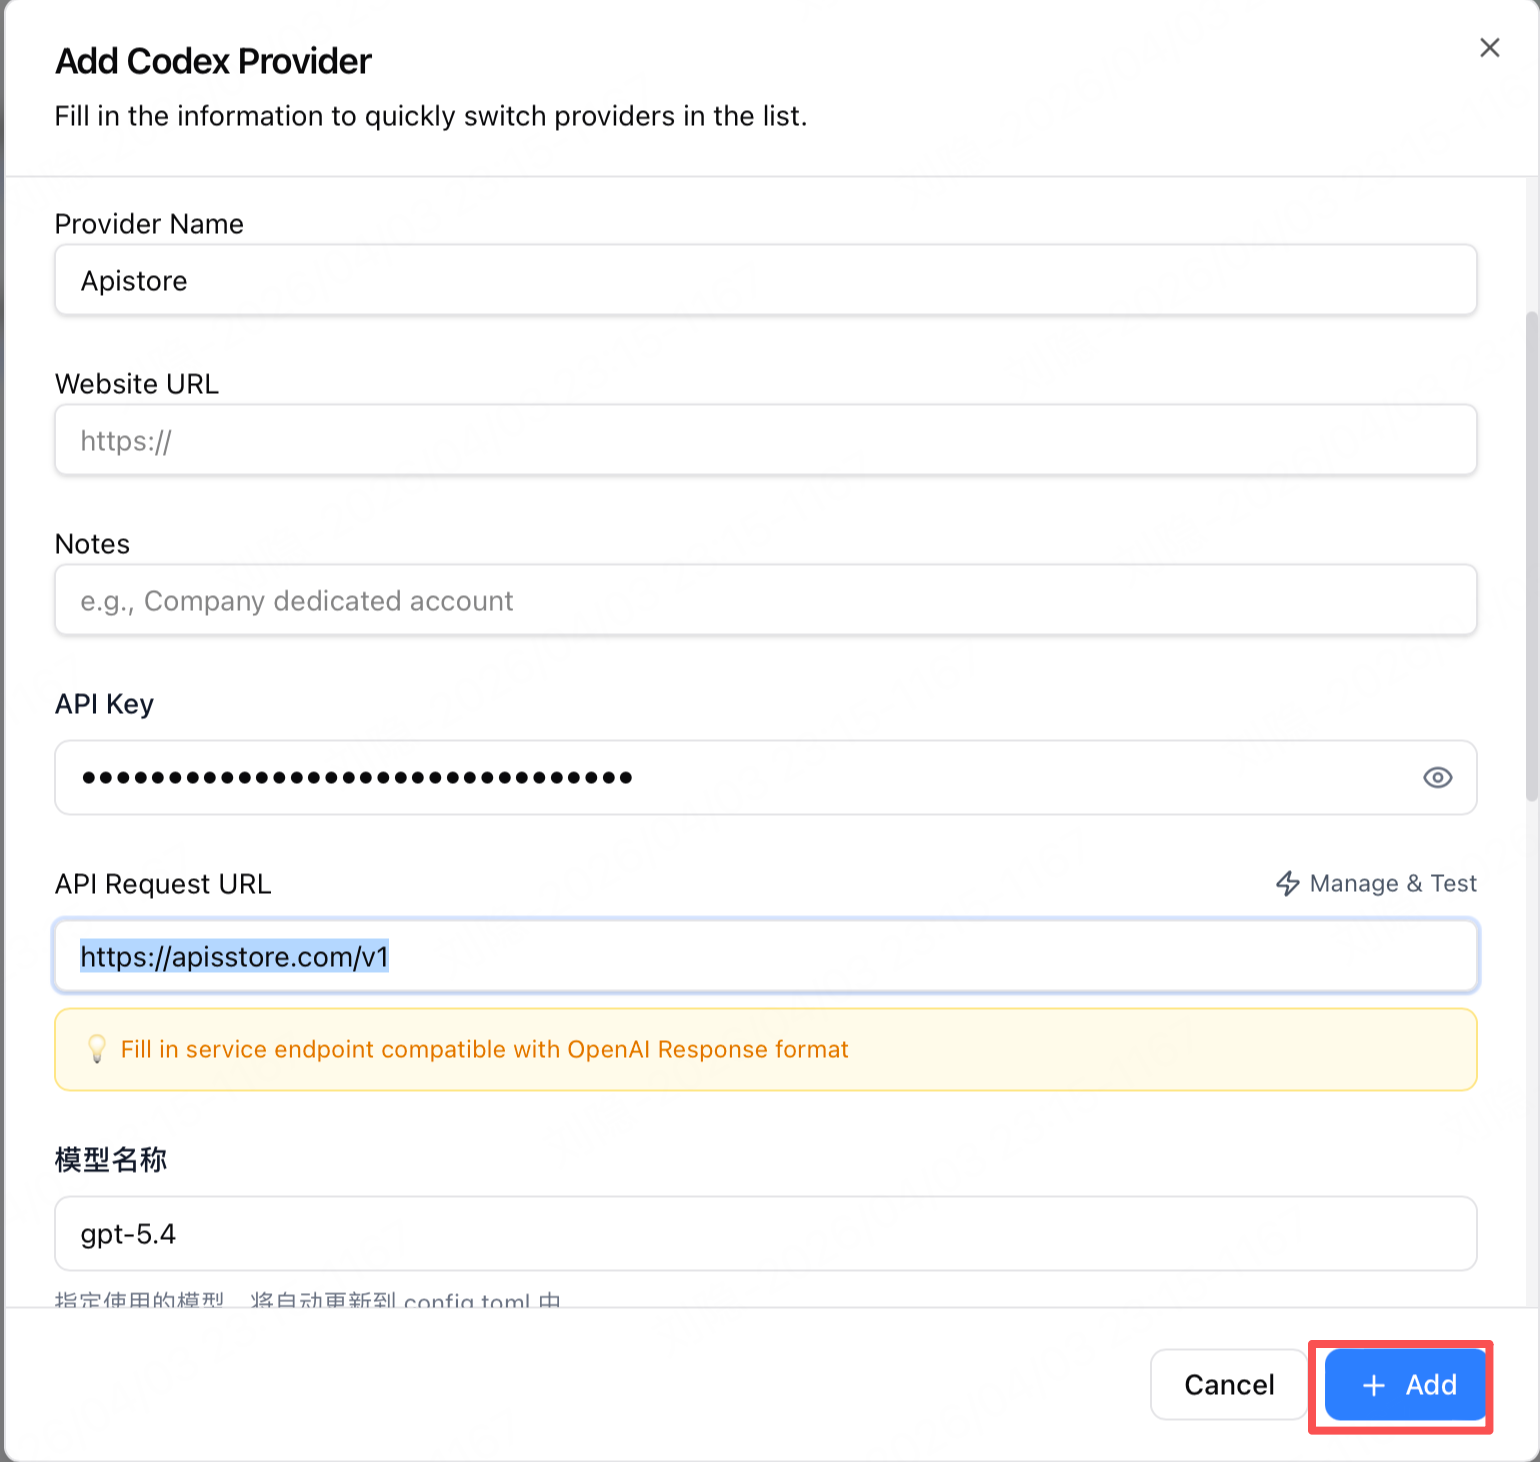
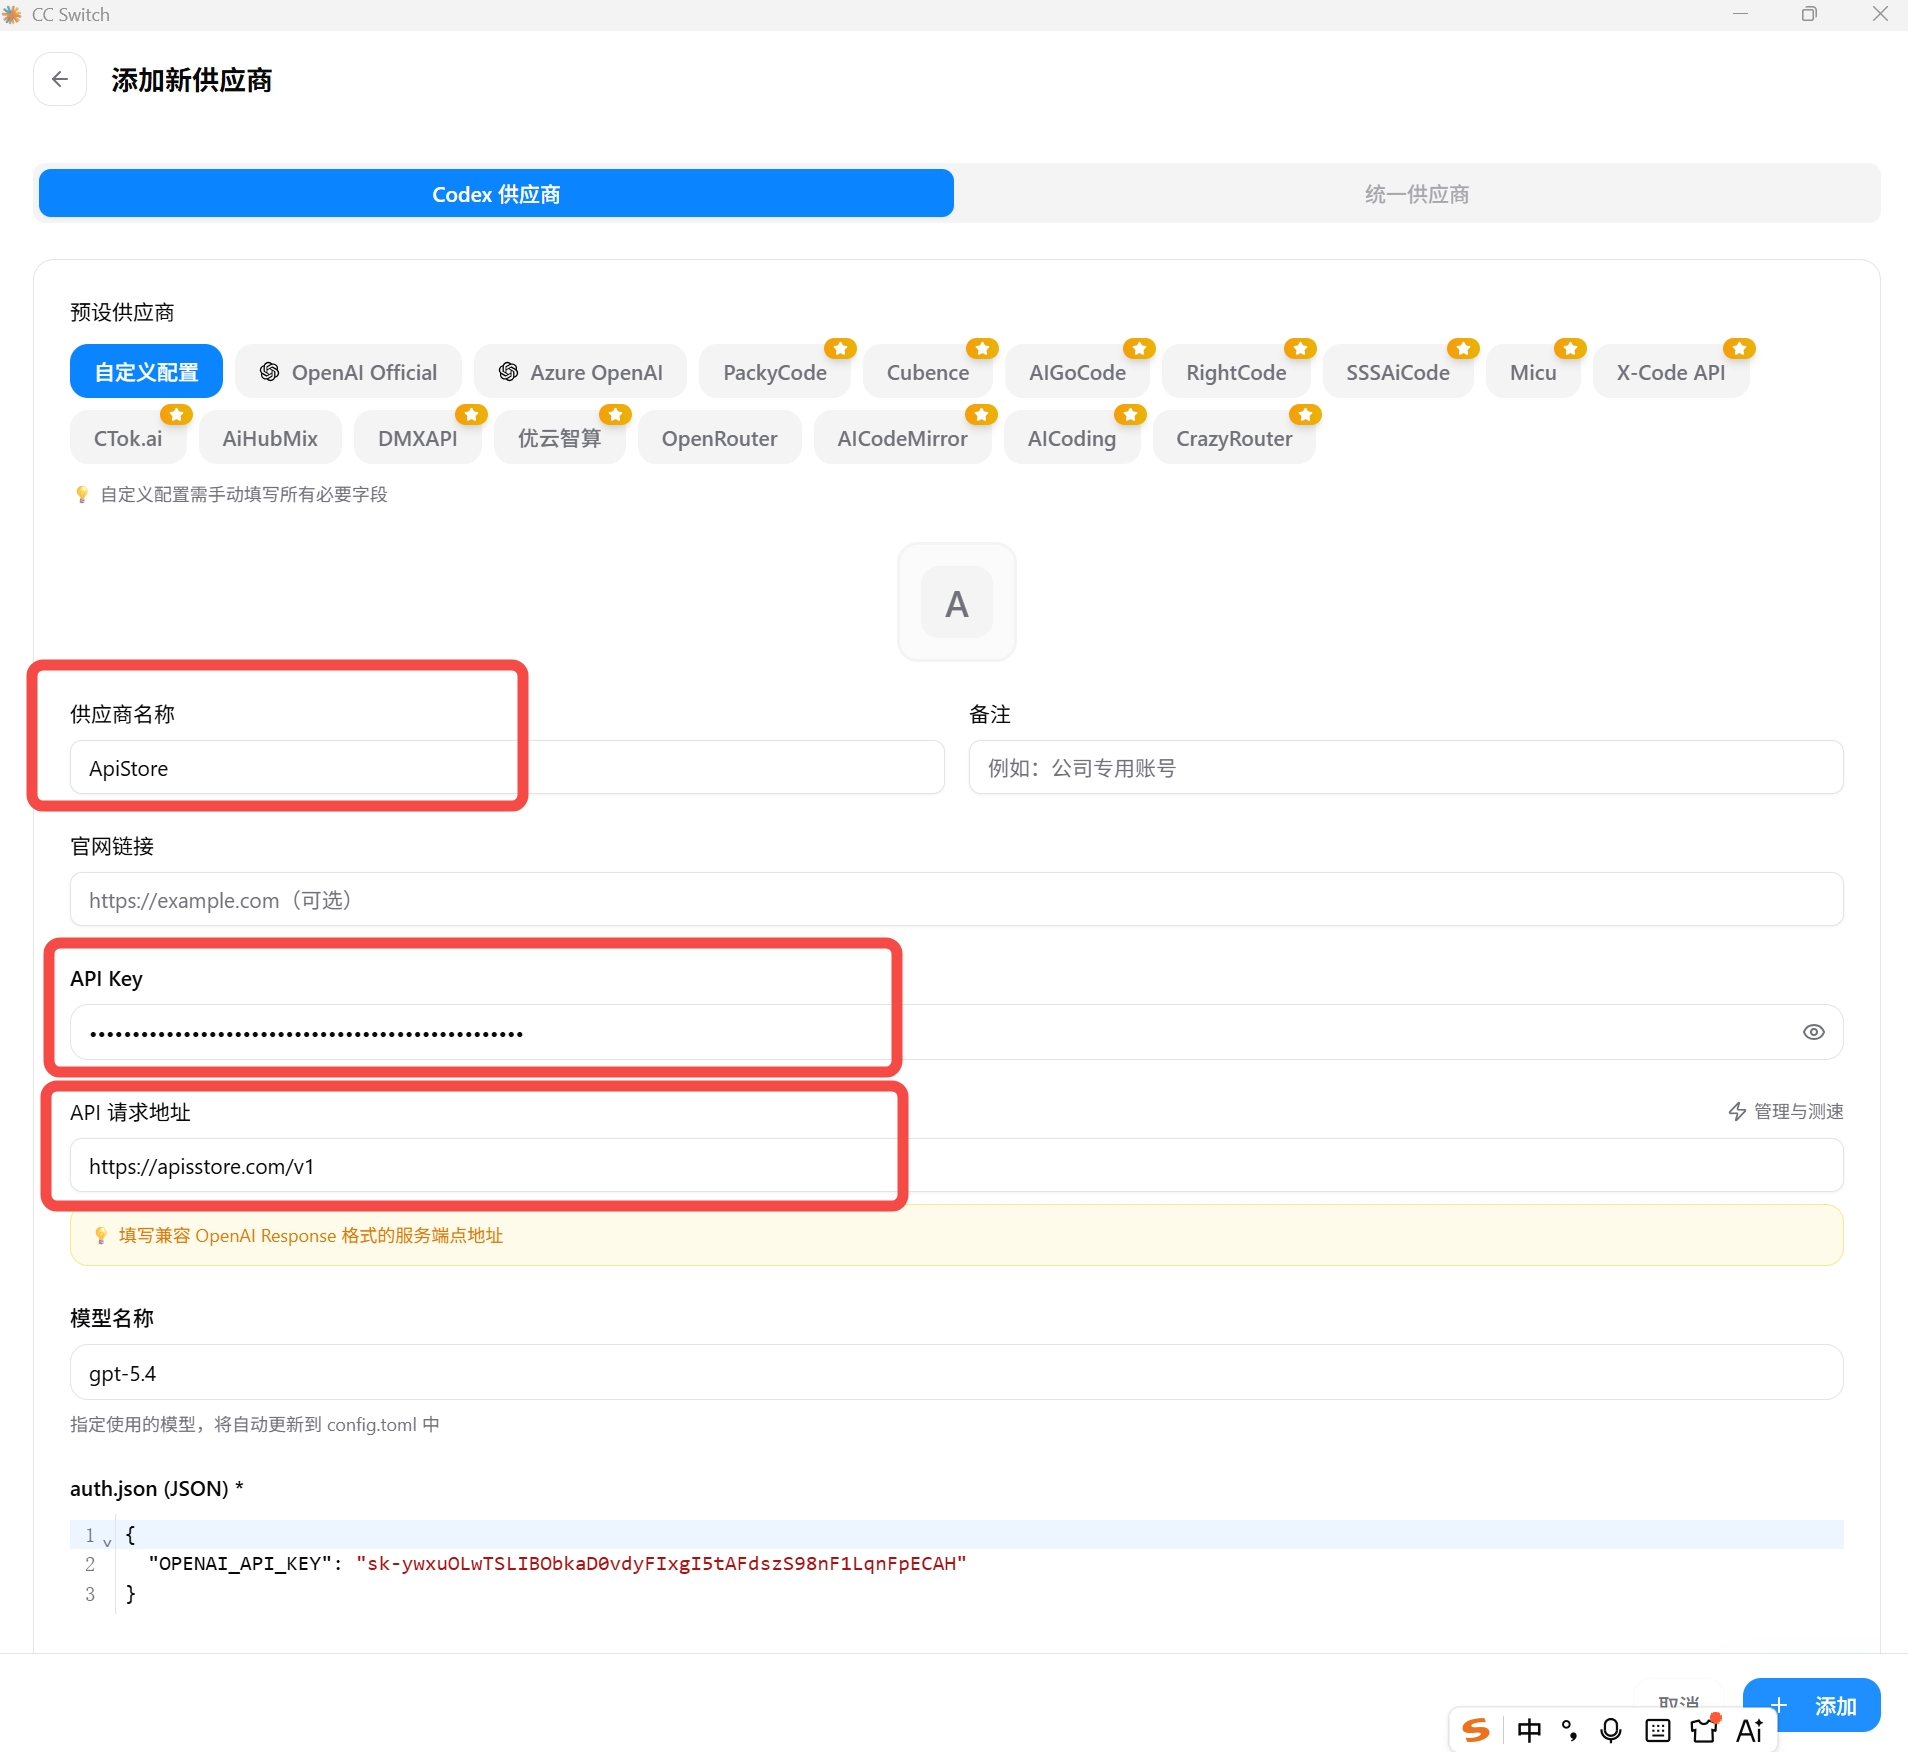
``` docs(Docs): 更新文档中的安装和配置说明
- 添加了nodejs下载安装步骤
- 重构了codex和claude的配置流程说明
- 更新了截图引用路径
- 删除了过时的API配置描述
- 新增了更多配置示例图片
```

diff --git a/web/src/pages/Docs/index.jsx b/web/src/pages/Docs/index.jsx
@@ -87,22 +87,28 @@ const DOC_ITEMS = [
 
 ## 2. 安装 codex
 
+- 下载安装nodejs: https://nodejs.org/zh-cn/download/
 \`\`\`bash
 npm i -g @openai/codex
 \`\`\`
 
 ## 3. 配置 Key
 
-- 点击 Add Provider
-- 输入 Provider Name（可自定义）
-- API Key：填写第一步创建 API Key 后复制的令牌
-- API Request URL：\`https://apisstore.com/v1\`
-- 模型选择：\`gpt-5.4\`
-- 填写完成后打开终端，输入 \`codex\` 即可开始对话
+- 切换到gpt页签,点击右侧加号
 
 ![Add Provider 示例](/img.png)
 
+- 输入 供应商名称 ApiStore
+- API Key：填写控制台令牌管理的秘钥
+- API请求地址：\`https://apisstore.com/v1\`
+- 其他可不填写,输入完成后点击右下角添加按钮
+
 ![配置完成示例](/img_1.png)
+- 保存后即可在列表中查看
+![Add Provider 示例](/codex-list.png)
+- 打开终端,输入codex即可对话
+![Add Provider 示例](/codex-terminal.png)
+
 `,
   },
   {
@@ -123,6 +129,7 @@ npm i -g @openai/codex
 
 ## 2. 安装 Claude Code
 
+下载安装nodejs: https://nodejs.org/zh-cn/download/
 Windows 和 macOS 都可以在终端执行下面命令：
 
 \`\`\`bash
@@ -131,52 +138,21 @@ npm install -g @anthropic-ai/claude-code
 
 如果提示没有 Node.js / npm，请先安装 Node.js 18 及以上版本，再重新执行命令。
 
----
+## 3. 配置 Key
 
-## 3. 创建并复制 API Key
+- 切换到claude页签,点击右侧加号
 
-- 先在本站控制台完成 API Key 创建。
-- 创建完成后，复制生成的令牌，后续配置时会用到。
+![Add Provider 示例](/claude-entry.png)
 
-如果还没有创建，可以先查看左侧的「创建API KEY」教程。
+- 输入 供应商名称 ApiStore
+- API Key：填写控制台令牌管理的秘钥
+- API请求地址：\`https://apisstore.com\`
+- 其他可不填写,输入完成后点击右下角添加按钮
 
----
-
-## 4. 在 cc switch 中添加 Provider
-
-- 打开 cc switch。
-- 切换到 Claude。
-- 点击 \`Add Provider\`。
-
-先找到 Claude 页签，再点击右侧的 \`Add Provider\`：
-
-![切换到 Claude 并添加 Provider](/img_2.png)
-
-然后填写以下内容：
-
-- Provider Name：自定义名称，方便自己识别即可
-- API Key：粘贴刚才复制的令牌
-- API Endpoint：\`https://apisstore.com\`
-- 其他项目保持默认，或按你的实际需求填写
-
-填写完成后点击右下角 \`Add\` 保存。
-
-![填写 Provider 信息](/img_3.png)
-
----
-
-## 5. 启动 Claude Code
-
-- 打开终端
-- 输入命令：
-
-\`\`\`bash
-claude
-\`\`\`
-
-- 启动后即可开始对话和使用 Claude Code。
-- 如果是第一次启动，建议先发送一句简单问候，确认连接已生效。
-
+![配置完成示例](/claude-form.png)
+- 保存后即可在列表中查看
+![Add Provider 示例](/claude-list.png)
+- 打开终端,输入claude即可对话
 ---
 
 ## Windows 使用说明
